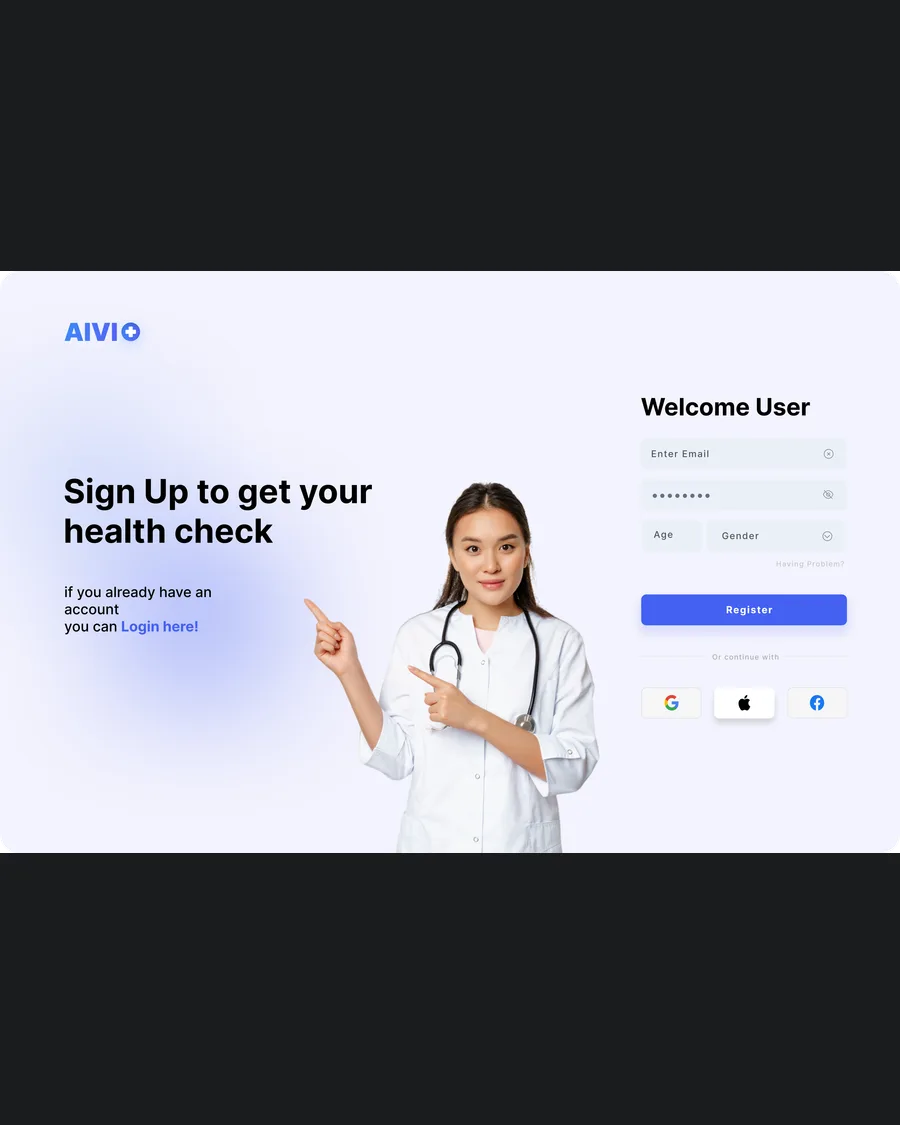
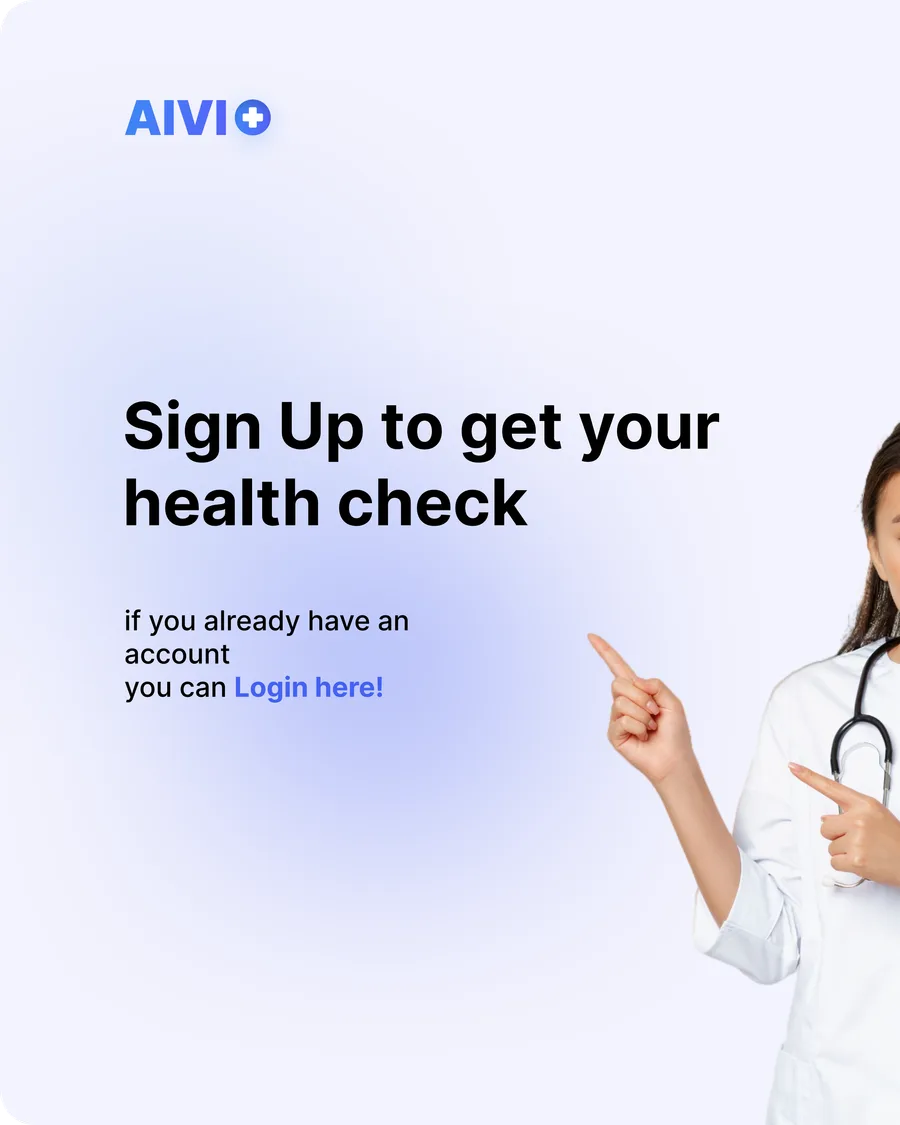
Use designed covers for project cards; reorder Development; add AI General Checkup
Project cards take their images from the new "Cover Website" folder and
featured cards show the whole frame on an ink ground instead of cropping.
Development order: PortfolioX, Fresh Fruitness, NLP featured; then Wine,
Energy, Real Estate, Research Paper, Mr. Coffee HTML, Campus Network,
AI General Checkup (new — the AIVI final project for the Artificial
Intelligence course, no repo yet), and the two Flutter projects last.
The paper card is titled "Research Paper" with a two-sentence summary;
its full title stays on the detail page. NLP hosting note removed,
summary shortened; "Watch presentation" button label.

Design: collections can use a designed cover (`coverFrom`) — AIVI uses
its "AIVI Design" cover so the tile matches the others. Gallery script:
`thumbFit: "cover"` + `coverAnchor: "left"` for wide frames.

diff --git a/app/lib/data.ts b/app/lib/data.ts
@@ -38,6 +38,8 @@ export const profile = {
 
 export type Project = {
   title: string;
+  /** Full title for the detail page when the card title is a shortened label. */
+  pageTitle?: string;
   /** Short name for breadcrumbs when the title is long (e.g. a paper title). */
   shortTitle?: string;
   /** URL segment for the detail page (only used when `gallery` is set). */
@@ -80,54 +82,19 @@ export type Project = {
 
 // Draft descriptions inferred from repository names — please correct.
 export const projects: Project[] = [
+  // --- Featured (wide cards) -------------------------------------------------
   {
     title: "PortfolioX",
     category: "Web",
     description:
-      "An investment portfolio platform — dashboard, Monte Carlo simulation against the efficient frontier, mean-variance optimisation, and risk profiling — built by a team for Software Engineering and deployed to production. I owned the UI/UX, worked on the backend, and helped write the documentation.",
+      "An investment portfolio platform — dashboard, Monte Carlo simulation, mean-variance optimisation, and risk profiling — built by a team for Software Engineering and deployed to production. I owned the UI/UX, worked on the backend, and helped write the documentation.",
     tech: ["React", "TypeScript", "Vite", "Tailwind CSS", "FastAPI", "Python", "PostgreSQL (Supabase)", "SQLAlchemy", "yfinance", "scipy", "Vercel"],
     role: "Group project — UI/UX, backend, documentation",
     repo: "https://github.com/Software-Engineering-LD01/PortfolioX",
     demo: "https://portfoliox-se.vercel.app/",
     docs: "https://app.notion.com/p/PORTFOLIOX-Software-Engineering-Project-Documentation-fb39690328d94aa1a3a35e884eeb1867",
     design: "/design/portfoliox",
-    featured: true,
-  },
-  {
-    title: "Review Authenticity Analyzer",
-    slug: "review-authenticity",
-    category: "AI / Machine Learning",
-    description:
-      "An NLP system that judges whether an Indonesian online review is genuine or fake. Two models run side by side — an LSTM over Word2Vec embeddings and a fine-tuned IndoBERT — combined with linguistic-feature analysis, served by a FastAPI backend behind a React interface and shipped as a Docker container on Hugging Face Spaces.",
-    tech: ["Python", "TensorFlow / Keras", "IndoBERT", "Word2Vec", "FastAPI", "React", "Docker", "Hugging Face Spaces"],
-    role: "Group project — final project",
-    repo: "https://huggingface.co/spaces/MichLoverz/review-authenticity-analyzer/tree/main",
-    repoLabel: "Source on Hugging Face",
-    demo: "https://huggingface.co/spaces/MichLoverz/review-authenticity-analyzer",
-    presentation: "https://www.youtube.com/watch?v=5KDMEInRzzU",
-    demoNote:
-      "Runs on Hugging Face's free tier: it sleeps when idle and takes a minute to wake. If it shows a runtime error instead, only I can restart it — send me a message and I'll bring it back up.",
-    screen: "01-short-review",
-    gallery: "nlp",
-    galleryIntro:
-      "The same three reviews, scored by both models. A glowing one-liner, a review that reads like a template, and a long, specific one — the LSTM + Word2Vec and IndoBERT models mostly agree, and where they differ the gap says something about how each reads the text.",
-    featured: true,
-  },
-  {
-    title: "Two-Phase Transfer Learning with ResNet50 for Tuberculosis Detection in Chest X-rays",
-    shortTitle: "TB detection paper",
-    slug: "tb-detection-paper",
-    category: "Research",
-    description:
-      "Tuberculosis is the world's deadliest infectious disease, and chest X-ray screening is bottlenecked by radiologist shortages. This paper compares a ResNet50 trained in two phases — classification head first with the backbone frozen, then the top 30 layers fine-tuned at a reduced learning rate — against single- and two-phase baselines on other CNNs, using 2,200 X-rays pooled from the Shenzhen, Montgomery County, and Kaggle TB datasets. On a held-out set of 330 images it reached 92.1% accuracy, 96.6% precision, and 0.978 AUC-ROC (five-fold CV: 0.975 ± 0.008), and Grad-CAM maps show it attends to clinically relevant lung regions. Accepted and presented at ICIMTech 2026 (IEEE).",
-    tech: ["ResNet50", "Two-phase transfer learning", "Chest X-ray", "Grad-CAM", "5-fold cross-validation"],
-    role: "First author & presenter — ICIMTech 2026 (IEEE)",
-    links: [{ href: "https://bit.ly/ProceedingICIMTech2026", label: "Conference proceedings" }],
-    screen: "09-certificate-author",
-    screenFull: true,
-    gallery: "tb-paper",
-    galleryIntro:
-      "Figures from the paper, in reading order: the two-phase training pipeline and model architecture, training curves, evaluation on the held-out test set (confusion matrix, ROC, comparison across six models), Grad-CAM interpretability maps and sample predictions — then the author and presenter certificates from the 2026 International Conference on Information Management and Technology, held 19–20 August 2026 in Tangerang.",
+    screen: "portfoliox",
     featured: true,
   },
   {
@@ -136,13 +103,33 @@ export const projects: Project[] = [
     description:
       "A computer-vision model that classifies fruit as fresh or spoiled from images, trained and evaluated in a Kaggle notebook and wrapped in a small demo app for the final presentation (the app's interface was scaffolded with AI assistance).",
     tech: ["Python", "TensorFlow / Keras", "OpenCV", "Kaggle"],
+    role: "Group project — final project",
     repo: "https://github.com/MichLoverz/group4-final_project-computer_vision-fresh_fruitness_detection",
     notebook: "https://www.kaggle.com/code/michloverz/fruit-freshness-demo-comvis-group-4",
     presentation: "https://www.youtube.com/watch?v=0obijlGrcCE",
-    role: "Group project — final project",
-    screen: "app-visual-for-comvis",
+    screen: "fresh-fruitness",
     featured: true,
   },
+  {
+    title: "Review Authenticity Analyzer",
+    slug: "review-authenticity",
+    category: "AI / Machine Learning",
+    description:
+      "Detects whether an Indonesian online review is genuine or fake, running an LSTM + Word2Vec model and a fine-tuned IndoBERT side by side. FastAPI backend, React front end, shipped as a Docker container on Hugging Face Spaces.",
+    tech: ["Python", "TensorFlow / Keras", "IndoBERT", "Word2Vec", "FastAPI", "React", "Docker", "Hugging Face Spaces"],
+    role: "Group project — final project",
+    repo: "https://huggingface.co/spaces/MichLoverz/review-authenticity-analyzer/tree/main",
+    repoLabel: "Source on Hugging Face",
+    demo: "https://huggingface.co/spaces/MichLoverz/review-authenticity-analyzer",
+    presentation: "https://www.youtube.com/watch?v=5KDMEInRzzU",
+    screen: "review-nlp",
+    gallery: "nlp",
+    galleryIntro:
+      "The same three reviews, scored by both models. A glowing one-liner, a review that reads like a template, and a long, specific one — the LSTM + Word2Vec and IndoBERT models mostly agree, and where they differ the gap says something about how each reads the text.",
+    featured: true,
+  },
+
+  // --- Regular cards -----------------------------------------------------------
   {
     title: "Wine Quality Prediction",
     category: "AI / Machine Learning",
@@ -179,6 +166,22 @@ export const projects: Project[] = [
     screen: "real-estate",
   },
   {
+    title: "Research Paper",
+    pageTitle: "Two-Phase Transfer Learning with ResNet50 for Tuberculosis Detection in Chest X-rays",
+    shortTitle: "Research paper",
+    slug: "tb-detection-paper",
+    category: "Research",
+    description:
+      "“Two-Phase Transfer Learning with ResNet50 for Tuberculosis Detection in Chest X-rays” — 92.1% accuracy and 0.978 AUC-ROC on 2,200 pooled chest X-rays, with Grad-CAM confirming attention on clinically relevant lung regions. Accepted and presented at ICIMTech 2026 (IEEE).",
+    tech: ["ResNet50", "Two-phase transfer learning", "Chest X-ray", "Grad-CAM", "5-fold cross-validation"],
+    role: "First author & presenter — ICIMTech 2026 (IEEE)",
+    links: [{ href: "https://bit.ly/ProceedingICIMTech2026", label: "Conference proceedings" }],
+    screen: "certificate-rm",
+    gallery: "tb-paper",
+    galleryIntro:
+      "Figures from the paper, in reading order: the two-phase training pipeline and model architecture, training curves, evaluation on the held-out test set (confusion matrix, ROC, comparison across six models), Grad-CAM interpretability maps and sample predictions — then the author and presenter certificates from the 2026 International Conference on Information Management and Technology, held 19–20 August 2026 in Tangerang.",
+  },
+  {
     title: "Mr. Coffee (HTML)",
     category: "Web",
     description:
@@ -188,25 +191,7 @@ export const projects: Project[] = [
     // TODO(michael): push the code and add the repo URL, then remove repoNote.
     repoNote: "Source not published yet",
     design: "/design/mrcoffee-html",
-  },
-  {
-    title: "Flutter Final Project",
-    category: "Mobile",
-    description:
-      "A cross-platform mobile application built as the final project for the Learn & Train program, covering UI design, state management, and app logic.",
-    tech: ["Flutter", "Dart", "Figma"],
-    role: "Individual project",
-    repo: "https://github.com/MichLoverz/LnT_Final-Project-Flutter",
-    featured: true,
-  },
-  {
-    title: "Flutter Mid Project",
-    category: "Mobile",
-    description:
-      "A mobile application built for the mid-term of the Learn & Train program, focused on core Flutter widgets and navigation.",
-    tech: ["Flutter", "Dart"],
-    role: "Individual project",
-    repo: "https://github.com/MichLoverz/LnT_Mid-Project-Flutter",
+    screen: "mr-coffee-html",
   },
   {
     title: "Campus Network Design",
@@ -217,10 +202,43 @@ export const projects: Project[] = [
     tech: ["Cisco Packet Tracer", "Routing & switching", "IP addressing", "Network topology"],
     role: "Group project — Computer Networks",
     report: "https://drive.google.com/drive/folders/1AKSZ7gXvFmKJdwovZu1ONI8qjAWsRjvX?usp=drive_link",
-    screen: "04-floor-1",
+    screen: "cisco",
     gallery: "cisco",
     galleryIntro:
       "From floor plan to topology. The building's floor plans set the room count and PC count per room; the Packet Tracer screenshots show how each floor is wired and how the floors meet at the core and the server block. The .pkt file and the full report — device list, IP tables, and configuration — are in the Drive folder.",
+  },
+  {
+    title: "AI General Checkup",
+    category: "AI / Machine Learning",
+    description:
+      "AIVI: a web app that reads general check-up data — blood pressure, glucose, cholesterol — and returns AI-generated health recommendations with a downloadable summary. Final project for the Artificial Intelligence course; designed in Figma, then built.",
+    // TODO(michael): list the actual stack (model, backend, front end).
+    tech: ["Python", "Machine learning", "Web app"],
+    role: "Final project — Artificial Intelligence",
+    // TODO(michael): push the code and add the repo URL, then remove repoNote.
+    repoNote: "Source not published yet",
+    design: "/design/aivi",
+    screen: "aivi-development",
+  },
+
+  // --- No screenshots yet — kept last ------------------------------------------
+  {
+    title: "Flutter Mid Project",
+    category: "Mobile",
+    description:
+      "A mobile application built for the mid-term of the Learn & Train program, focused on core Flutter widgets and navigation.",
+    tech: ["Flutter", "Dart"],
+    role: "Individual project",
+    repo: "https://github.com/MichLoverz/LnT_Mid-Project-Flutter",
+  },
+  {
+    title: "Flutter Final Project",
+    category: "Mobile",
+    description:
+      "A cross-platform mobile application built as the final project for the Learn & Train program, covering UI design, state management, and app logic.",
+    tech: ["Flutter", "Dart", "Figma"],
+    role: "Individual project",
+    repo: "https://github.com/MichLoverz/LnT_Final-Project-Flutter",
   },
 ];
 

diff --git a/app/components/ProjectCard.tsx b/app/components/ProjectCard.tsx
@@ -21,7 +21,7 @@ export function projectImage(project: Project): string | undefined {
   return undefined;
 }
 
-function Thumb({ project }: { project: Project }) {
+function Thumb({ project, contain = false }: { project: Project; contain?: boolean }) {
   const src = projectImage(project);
   if (src) {
     return (
@@ -29,7 +29,7 @@ function Thumb({ project }: { project: Project }) {
       <img
         src={src}
         alt={project.title}
-        className="h-full w-full object-cover object-left-top"
+        className={`h-full w-full ${contain ? "bg-ink object-contain" : "object-cover object-center"}`}
       />
     );
   }
@@ -54,20 +54,21 @@ export default function ProjectCard({ project, index }: Props) {
           : "flex-col"
       }`}
     >
-      {/* Thumbnail — featured cards cap the image at 4:3 so the text column
-          never floats in empty space; the image is cropped from the top. */}
+      {/* Thumbnail — covers are 16:9.5 designed frames. Featured cards show the
+          whole frame on an ink ground (the text column sets the height); regular
+          cards are 16:9, close enough to fill. */}
       <div
         className={`relative shrink-0 border-steel ${
           featured
-            ? "aspect-video border-b md:aspect-[4/3] md:w-[46%] md:border-b-0 md:border-r"
+            ? "aspect-video border-b md:aspect-auto md:w-[55%] md:border-b-0 md:border-r"
             : "aspect-video border-b"
         }`}
       >
-        <Thumb project={project} />
+        <Thumb project={project} contain={Boolean(featured)} />
       </div>
 
       {/* Body */}
-      <div className="flex flex-1 flex-col p-6 md:p-8">
+      <div className={`flex flex-1 flex-col p-6 ${featured ? "md:p-7" : ""}`}>
         <div className="flex items-center justify-between gap-4">
           <span className="label flex items-center gap-2">
             <span aria-hidden className="h-2 w-2 bg-signal" />
@@ -78,11 +79,7 @@ export default function ProjectCard({ project, index }: Props) {
 
         <h3
           className={`font-display mt-4 font-bold leading-none text-bone transition-colors group-hover:text-signal ${
-            featured
-              ? project.title.length > 40
-                ? "text-3xl md:text-4xl" // long titles (papers) step down one size
-                : "text-4xl md:text-5xl"
-              : "text-3xl"
+            featured ? "text-3xl md:text-4xl" : "text-3xl"
           }`}
         >
           {project.title}
@@ -128,7 +125,7 @@ export default function ProjectCard({ project, index }: Props) {
           {project.presentation && (
             <a href={project.presentation} target="_blank" rel="noreferrer" className={linkClass}>
               <ExternalLinkIcon width={16} height={16} />
-              Watch the presentation
+              Watch presentation
             </a>
           )}
           {project.report && (

diff --git a/app/development/[slug]/page.tsx b/app/development/[slug]/page.tsx
@@ -19,7 +19,7 @@ export async function generateMetadata({
 }: PageProps<"/development/[slug]">): Promise<Metadata> {
   const { slug } = await params;
   const p = detailed.find((x) => x.slug === slug);
-  return p ? { title: `${p.title} — Michael Peterson`, description: p.description } : {};
+  return p ? { title: `${p.pageTitle ?? p.title} — Michael Peterson`, description: p.description } : {};
 }
 
 export default async function ProjectPage({ params }: PageProps<"/development/[slug]">) {
@@ -34,7 +34,7 @@ export default async function ProjectPage({ params }: PageProps<"/development/[s
     ...(project.demo ? [{ href: project.demo, label: "Open live app" }] : []),
     ...(project.repo ? [{ href: project.repo, label: project.repoLabel ?? "Open repository" }] : []),
     ...(project.notebook ? [{ href: project.notebook, label: "Open notebook" }] : []),
-    ...(project.presentation ? [{ href: project.presentation, label: "Watch the presentation" }] : []),
+    ...(project.presentation ? [{ href: project.presentation, label: "Watch presentation" }] : []),
     ...(project.report ? [{ href: project.report, label: "Final report & files" }] : []),
     ...(project.docs ? [{ href: project.docs, label: "Documentation" }] : []),
     ...(project.design ? [{ href: project.design, label: "See the design" }] : []),
@@ -53,7 +53,7 @@ export default async function ProjectPage({ params }: PageProps<"/development/[s
               { href: `/development/${project.slug}`, label: project.shortTitle ?? project.title },
             ]}
             index={`03.${index}`}
-            title={project.title}
+            title={project.pageTitle ?? project.title}
             intro={project.galleryIntro ?? project.description}
             meta={[project.category, project.role].join(" / ")}
             actions={actions}

diff --git a/app/lib/design.ts b/app/lib/design.ts
@@ -54,6 +54,8 @@ export type Collection = {
   ratio: "square" | "portrait" | "story" | "wide" | "video";
   /** Substring of the file path used as the overview cover; defaults to the first item. */
   cover?: string;
+  /** Use a designed cover from "College/Cover Website" instead (filename fragment). */
+  coverFrom?: string;
   /** External design file, shown as a button on the collection page. */
   figma?: string;
   /** Extra buttons on the collection page (live site, docs, related page). */
@@ -217,7 +219,7 @@ export const collections: Collection[] = [
     intro:
       "AIVI reads a user's general check-up data — blood pressure, glucose, cholesterol — and returns instant, AI-generated health recommendations. Landing page, authentication, and the main results page, in light mode.",
     ratio: "portrait",
-    cover: "landing",
+    coverFrom: "aivi-design",
     figma: "https://www.figma.com/design/0J8k5zyqXkrCeyL0paKPHP/AIVI?node-id=0-1&t=mZSh7LaK4zz2sezC-1",
   },
 
@@ -316,6 +318,10 @@ export function countFor(slug: string): number {
 }
 
 export function coverFor(c: Collection): GalleryItem | undefined {
+  if (c.coverFrom) {
+    const designed = itemsFor("dev-screens").find((i) => i.full.includes(c.coverFrom as string));
+    if (designed) return designed;
+  }
   const list = itemsFor(c.slug);
   if (c.cover) {
     const hit = list.find((i) => i.full.includes(c.cover as string));
